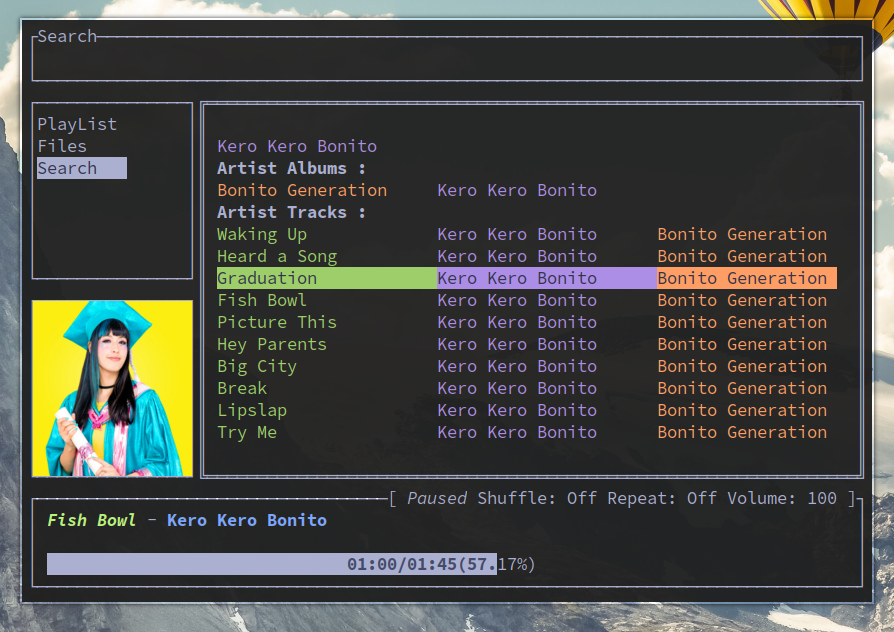
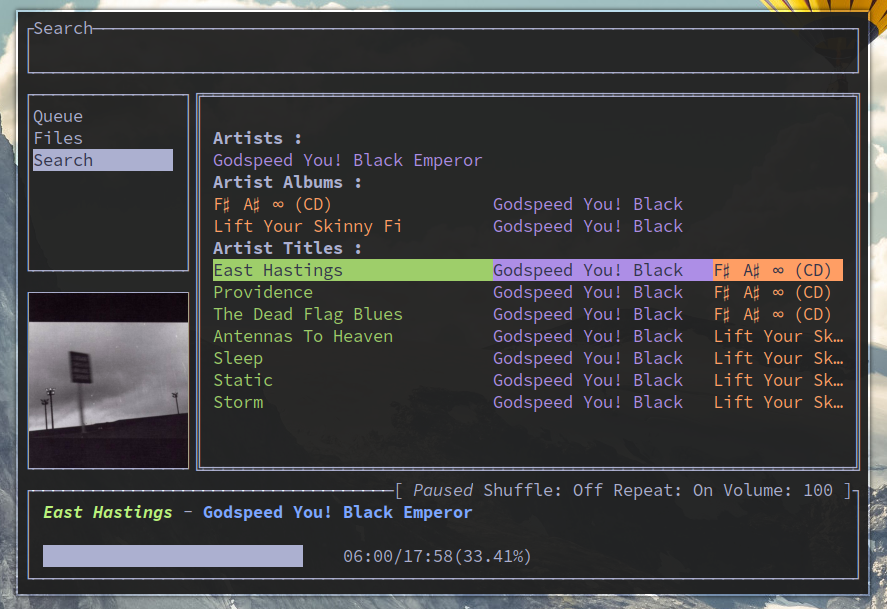
fix: names in Navbar aren't fully selected

diff --git a/watchers/watchers.go b/watchers/watchers.go
@@ -10,6 +10,7 @@ import (
 	"github.com/aditya-K2/gomp/render"
 	"github.com/aditya-K2/gomp/ui"
 	"github.com/aditya-K2/gomp/utils"
+	"github.com/aditya-K2/tview"
 	"github.com/fhs/gompd/v2/mpd"
 )
 
@@ -43,6 +44,13 @@ func StartRectWatcher() {
 			ui.ImgX, ui.ImgY, ui.ImgW, ui.ImgH = ui.Ui.ImagePreviewer.GetRect()
 		}
 		drawCh <- true
+
+		// Set Names so that they appear fully selected.
+		// TODO: write a AfterDraw func which is called after the UI is drawn.
+		_, _, w, _ := ui.Ui.Navbar.GetRect()
+		ui.Ui.Navbar.SetCell(0, 0, tview.NewTableCell(utils.GetFormattedString("Queue", w-4)))
+		ui.Ui.Navbar.SetCell(1, 0, tview.NewTableCell(utils.GetFormattedString("Files", w-4)))
+		ui.Ui.Navbar.SetCell(2, 0, tview.NewTableCell(utils.GetFormattedString("Search", w-4)))
 	}()
 
 	go func() {

diff --git a/ui/app.go b/ui/app.go
@@ -40,10 +40,6 @@ func NewApplication() *Application {
 	Navbar.SetBorder(true)
 	Navbar.SetSelectable(true, false)
 
-	Navbar.SetCell(0, 0, tview.NewTableCell("PlayList"))
-	Navbar.SetCell(1, 0, tview.NewTableCell("Files"))
-	Navbar.SetCell(2, 0, tview.NewTableCell("Search"))
-
 	searchNavFlex := tview.NewFlex().SetDirection(tview.FlexRow).
 		AddItem(Navbar, 0, 4, false).
 		AddItem(imagePreviewer, 9, 3, false)
